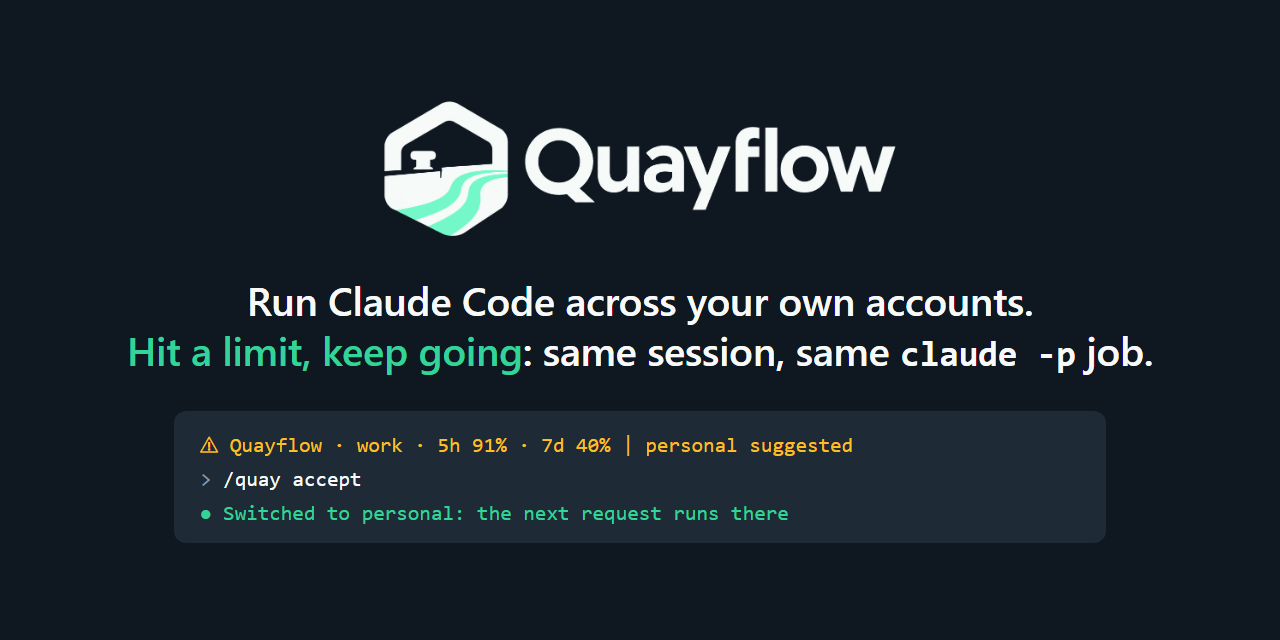
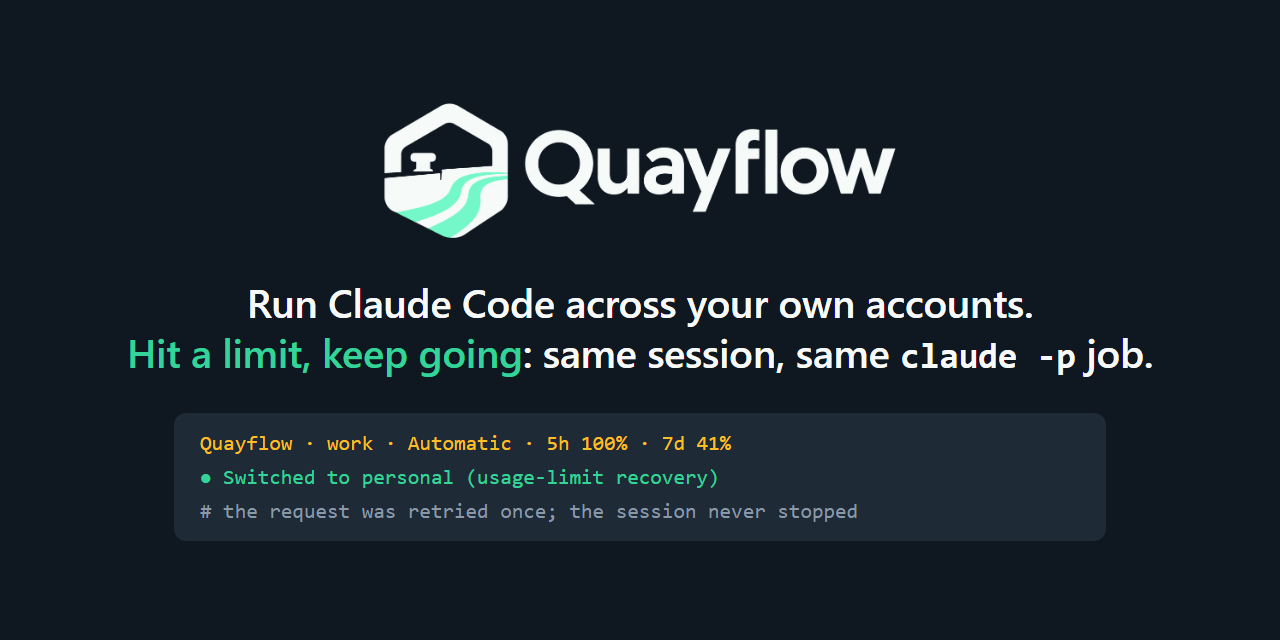
docs: README demos Automatic mode
The animated hero, the social card and Quick start now show Automatic
mode: a request hits the limit and continues on another account in the
same session. Suggest stays the default and is described as the choice
for people who want to decide each time.

diff --git a/assets/screenshots/hero-switch.py b/assets/screenshots/hero-switch.py
@@ -1,29 +1,30 @@
-"""Generates assets/screenshots/hero-switch.svg: a looping terminal scene of a suggested switch.
+"""Generates assets/screenshots/hero-switch.svg: a looping terminal scene of a usage-limit recovery in Automatic mode.
 
 Sample data; the wording follows the Mod's own messages and status line.
 """
 from xml.sax.saxutils import escape
 
-W, H = 820, 310
+W, H = 820, 238
 CYCLE = 14  # seconds
 BG, BAR, FG, DIM, WARN, ACC, OK = '#0F1720', '#1E2A36', '#F8FAF9', '#8A99A8', '#FBBF24', '#A7F3D0', '#34D399'
 X, Y0, LH = 24, 70, 24
 
 # (text, colour, line index or 'foot', start %, end %)
+# Automatic mode: a request hits the 5-hour limit of "work" mid-task; Quayflow switches once and
+# retries that request on "personal"; the answer arrives in the same session. The note is the
+# first sentence of the engine's own "switched" event.
 items = [
     ('> Refactor the parser to stream tokens', ACC, 0, 2, 96),
     ('● Done: the parser streams tokens; 4 files changed, tests pass.', FG, 1, 8, 96),
-    ('● quayflow: Quayflow suggests "personal": work at 91% 5h &gt;= 85%; personal at 12% 5h.', DIM, 2, 20, 96),
-    ('> /quay accept', ACC, 3, 32, 96),
-    ('  ⎿ quayflow: Switch to "personal" for environment default: requested.', DIM, 4, 38, 96),
-    ('● quayflow: Quayflow: Switched to personal (suggestion accepted).', OK, 5, 45, 96),
-    ('> Now add a benchmark for the streaming path', ACC, 6, 56, 96),
-    ('● Added bench/stream.rs and a CI job that runs it.', FG, 7, 68, 96),
-    ('Quayflow · work · Suggest · 5h 91% · 7d 40%', DIM, 'foot', 0, 18),
-    ('⚠ quayflow: Quayflow · work · Suggest · 5h 91% · 7d 40% | personal suggested', WARN, 'foot', 18, 50),
-    ('Quayflow · personal · Suggest · 5h 12% · 7d 8%', DIM, 'foot', 50, 96),
+    ('> Now add a benchmark for the streaming path', ACC, 2, 22, 96),
+    ('✻ Working…', DIM, 3, 28, 44),
+    ('● quayflow: Quayflow: Switched to personal (usage-limit recovery).', OK, 3, 44, 96),
+    ('● Added bench/stream.rs and a CI job that runs it.', FG, 4, 56, 96),
+    ('Quayflow · work · Automatic · 5h 97% · 7d 40%', DIM, 'foot', 0, 32),
+    ('Quayflow · work · Automatic · 5h 100% · 7d 41%', WARN, 'foot', 32, 44),
+    ('Quayflow · personal · Automatic · 5h 12% · 7d 8%', DIM, 'foot', 44, 96),
 ]
-FINAL = {0, 1, 2, 3, 4, 5, 6, 7, 10}  # what a still frame shows (reduced motion)
+FINAL = {0, 1, 2, 4, 5, 8}  # what a still frame shows (reduced motion)
 
 css, body = [], []
 for i, (text, colour, line, s, e) in enumerate(items):
@@ -35,7 +36,7 @@ for i, (text, colour, line, s, e) in enumerate(items):
     style = '' if i in FINAL else ' data-still="hide"'
     body.append(f'<text class="e{i}" x="{X}" y="{y}" fill="{colour}"{style}>{text}</text>')
 
-svg = f'''<svg xmlns="http://www.w3.org/2000/svg" width="{W}" height="{H}" viewBox="0 0 {W} {H}" role="img" aria-label="Claude Code with Quayflow: the status line suggests the account personal near the limit, /quay accept switches, and the next request runs on personal in the same session">
+svg = f'''<svg xmlns="http://www.w3.org/2000/svg" width="{W}" height="{H}" viewBox="0 0 {W} {H}" role="img" aria-label="Claude Code with Quayflow in Automatic mode: a request hits the 5-hour limit of the account work, Quayflow switches to personal and retries it once, and the answer arrives in the same session">
 <style>
 text{{font-family:ui-monospace,SFMono-Regular,Menlo,Consolas,'Liberation Mono',monospace;font-size:14px;white-space:pre}}
 {''.join(css)}

diff --git a/README.md b/README.md
@@ -16,7 +16,7 @@ in place: same conversation, same process, no restart, nothing replayed.
 
 [Why](#why-quayflow) · [Contract](#the-contract) · [Install](#install) · [Quick start](#quick-start) · [Headless jobs](#headless-jobs) · [How it works](#how-it-works) · [FAQ](#faq) · [Docs](#documentation)
 
-<img src="assets/screenshots/hero-switch.svg" alt="A Claude Code session: the status line suggests the account personal near the limit, /quay accept switches, and the next request runs on personal in the same session" width="820">
+<img src="assets/screenshots/hero-switch.svg" alt="Claude Code with Quayflow in Automatic mode: a request hits the 5-hour limit of the account work, Quayflow switches to personal and retries it once, and the answer arrives in the same session" width="820">
 
 </div>
 
@@ -29,9 +29,10 @@ If you have more than one Claude subscription, for example a work seat and a per
 
 |  | `/login` by hand | Quayflow |
 |---|---|---|
-| Interactive session near its limit | You notice when a request fails, then sign in again in the browser | The status line suggests the account with room before you hit the wall; `/quay accept` and the next request runs there |
+| Interactive session hits its limit | The request fails; you sign in again in the browser and repeat it | In Automatic mode: the same request is retried once on an account with room, and the answer arrives. You do nothing |
+| Session near its limit | You notice late | Automatic switches before the wall (85% by default); Suggest asks first |
 | Which account to use | You check each one's usage yourself | Fresh usage of every account, side by side; suggestions follow your groups and ranks |
-| `claude -p` job hits the limit | Fails with exit code 1 | In Automatic mode: one switch, one retry, normal answer, exit code 0 |
+| `claude -p` job hits the limit | Fails with exit code 1 | One switch, one retry, normal answer, exit code 0 |
 | Several jobs hit it at once | All fail | One shared switch; each job retries once |
 | Every account is at its limit | Claude's message | The same message and exit code, untouched, plus `quayflow last` telling your script when to run again |
 
@@ -39,7 +40,7 @@ Three things set it apart:
 
 - **In place.** No wrapper, no launcher, no proxy. You keep typing `claude` and `claude -p`. Quayflow swaps the login under Claude's own locks between requests and then checks that the next request really used the new account.
 - **Built for unattended work.** A headless run's stdout, stderr and exit code are always Claude's own. Nothing prompts, nothing hangs, at most one retry, never a replay.
-- **You stay in control.** Groups say which accounts may serve which projects. Suggest is the default; Automatic is opt-in per group. Fresh usage only: a reading that is out of date never counts as room.
+- **You stay in control.** Groups say which accounts may serve which projects. Automatic is approved once per group; until then Quayflow only suggests (Suggest mode) or does nothing (Manual). Fresh usage only: a reading that is out of date never counts as room.
 
 ## Same job, two outcomes
 
@@ -132,19 +133,27 @@ Details: [acceptance results](docs/acceptance.md).
 2. Type `/quay`. The welcome screen asks you to start the engine and to accept the terms reminder.
 3. **Register** the login you are signed in with, and allow Quayflow to keep it in its vault. It joins the `Default` group.
 4. **Add account.** A window opens with Claude's own sign-in. Quayflow never sees a password or asks for a token.
-5. Keep working. The status line shows the live account and its usage. Near the threshold (85%) it suggests the other account:
+5. **Turn on Automatic** for the group. Quayflow asks you to approve it once:
 
    ```text
-   Quayflow · work · Suggest · 5h 91% · 7d 40% | personal suggested
+   /quay mode automatic
    ```
 
-   Type `/quay accept`. Your next message runs on `personal`.
+   (or `quayflow mode automatic --group Default --approve` from a terminal or a script.)
 
-For unattended jobs, let Quayflow switch by itself in that group:
+6. Keep working. The status line shows the live account and its usage:
 
-```sh
-quayflow mode automatic --group Default --approve
-```
+   ```text
+   Quayflow · work · Automatic · 5h 97% · 7d 40%
+   ```
+
+   Near the threshold (85%) Quayflow switches to the account with the most room. If a request hits the limit first, it switches and retries that request once. Either way your next answer arrives in the same session, and the transcript says what happened:
+
+   ```text
+   ● quayflow: Quayflow: Switched to personal (usage-limit recovery).
+   ```
+
+Prefer to decide each time? Leave the group in Suggest, the default: the status line then says `| personal suggested` and `/quay accept` switches.
 
 Everything in the pane also works from the command line: `quayflow status`, `quayflow use <account>`, `quayflow group ...`. See the [user guide](docs/user-guide.md).
 
@@ -167,7 +176,7 @@ returns Claude's normal JSON with exit code 0: Quayflow switched to `personal` a
 19:53:51 adoption           used: personal, ok: true             <- the retry ran on personal
 ```
 
-When there is nothing to switch to, the job gets Claude's own result, unchanged. Your script asks what happened with the `session_id` from Claude's output:
+When Quayflow does not switch (every account is at its limit, or the group is not in Automatic), the job gets Claude's own result, unchanged. Your script asks what happened with the `session_id` from Claude's output:
 
 ```text
 $ quayflow last --session a04910ad-30f6-4c2a-8bd8-94a317333a02
